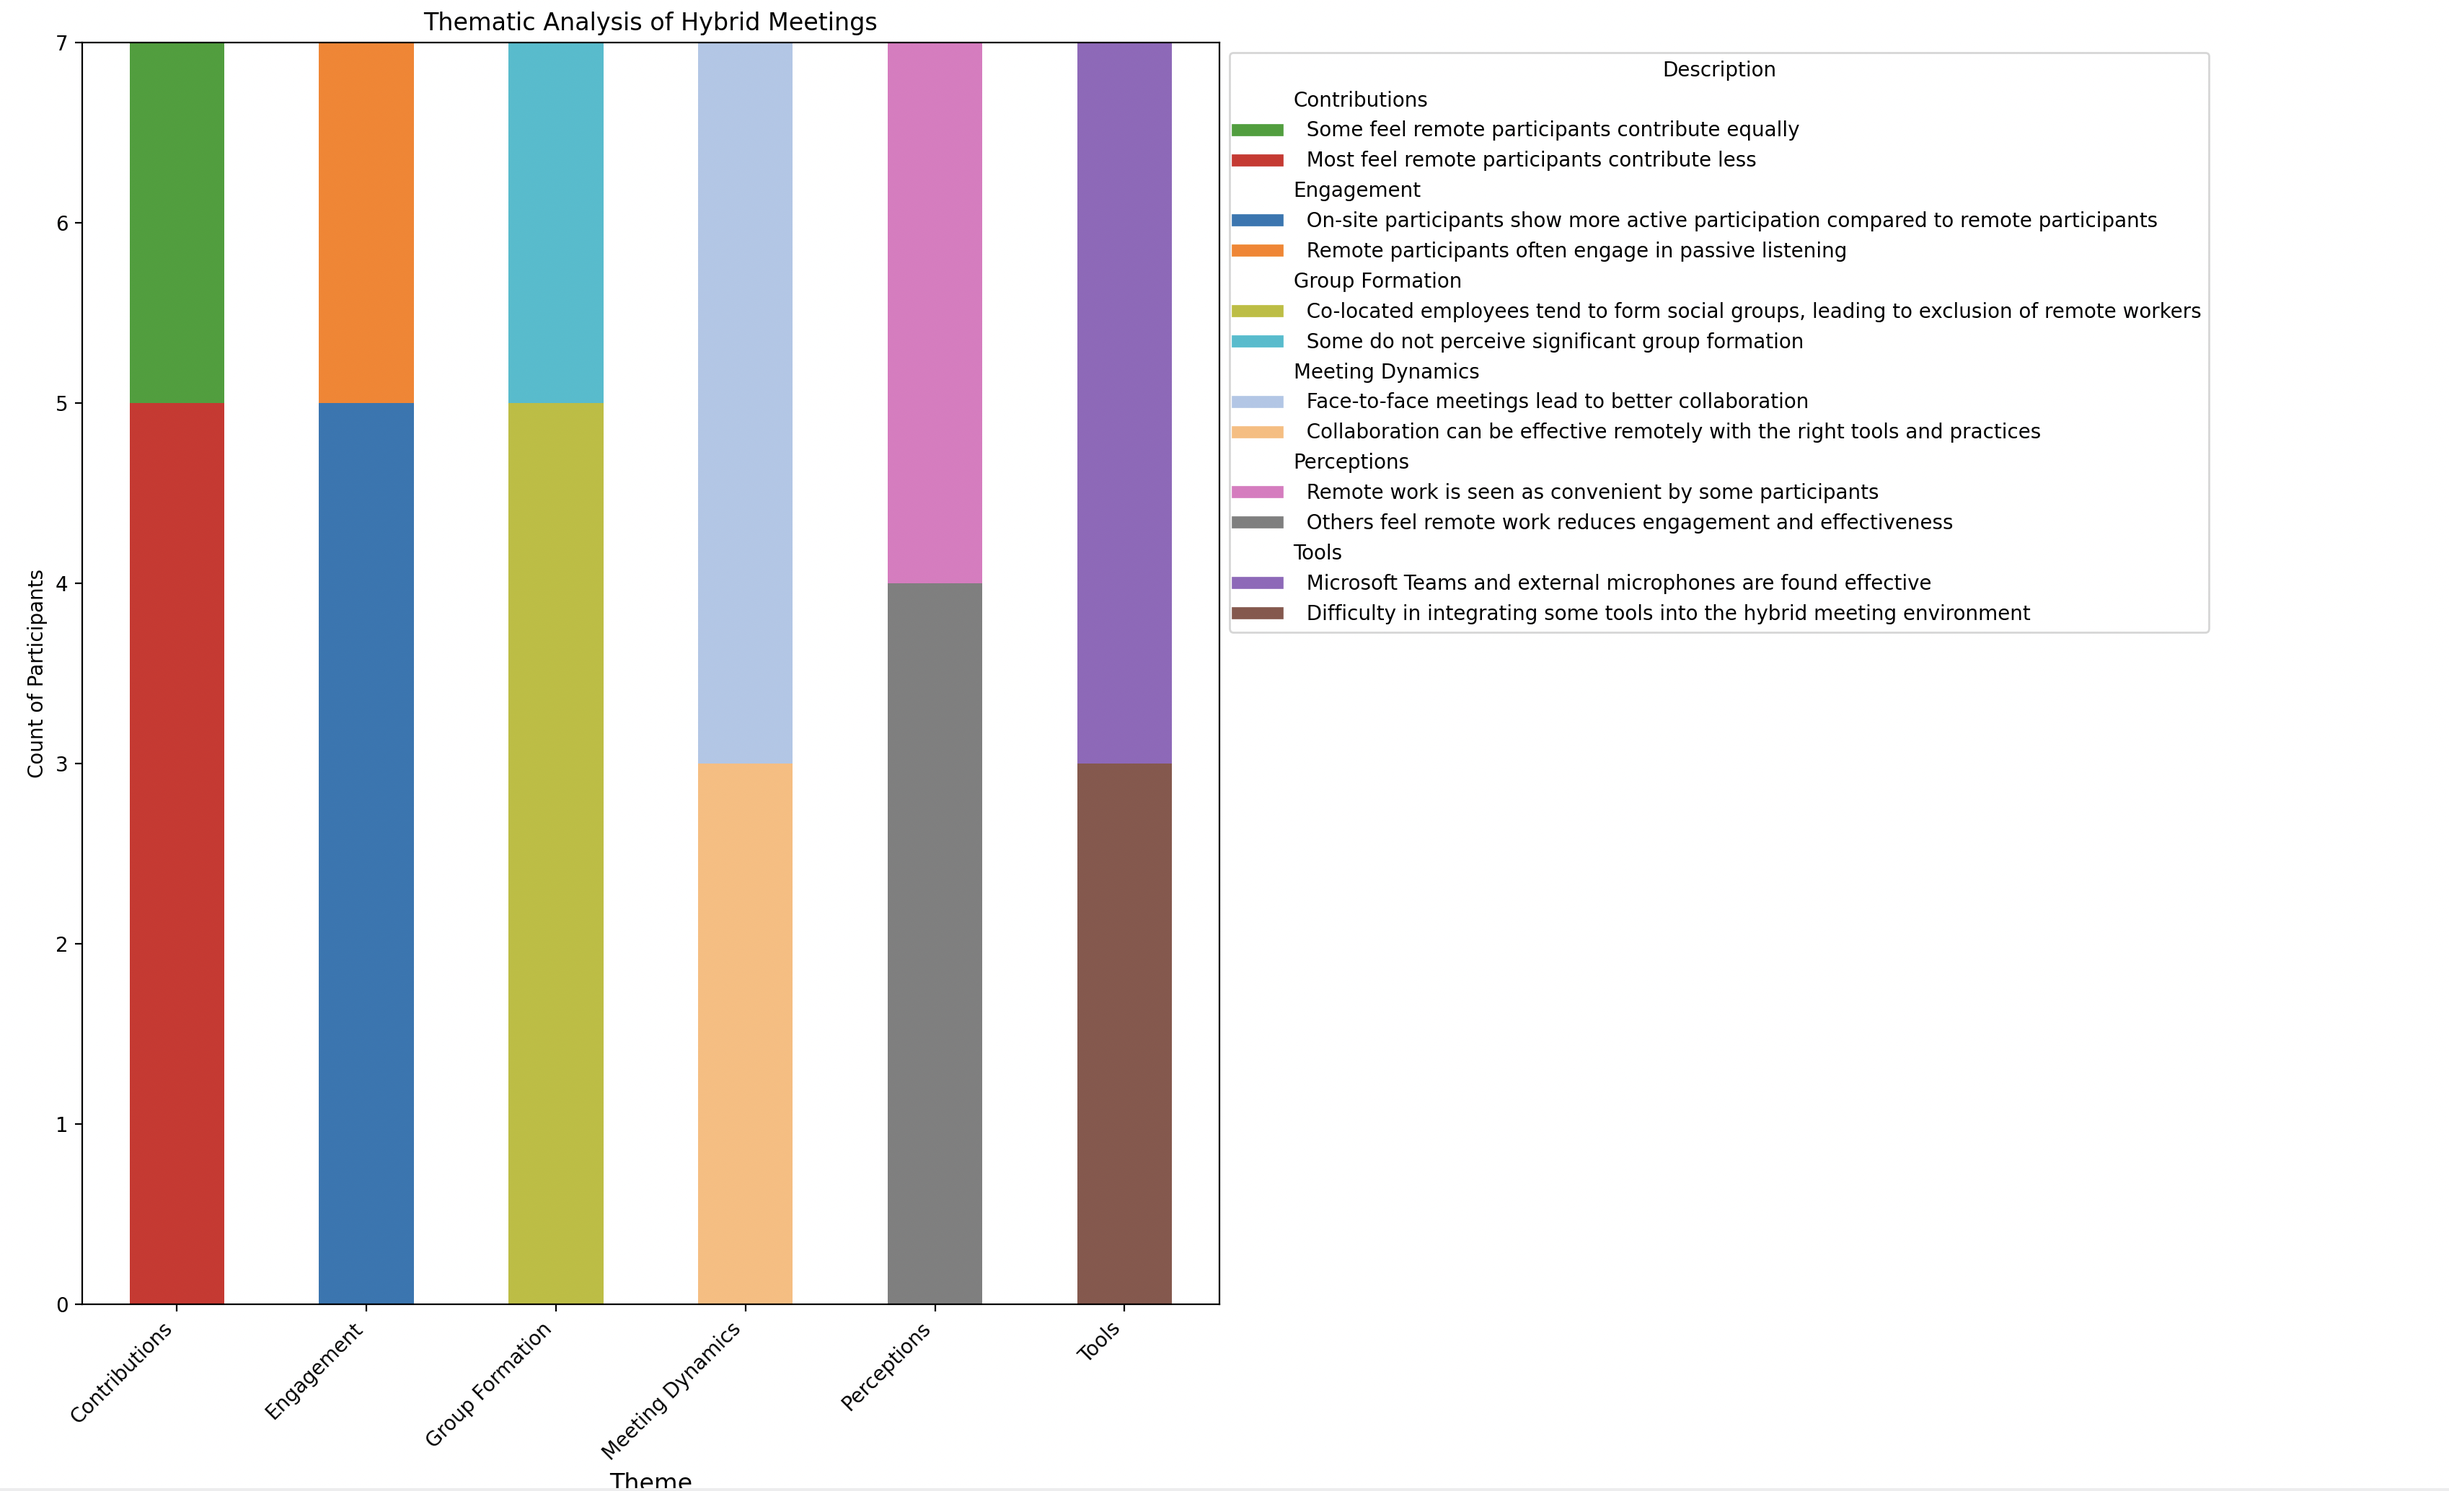
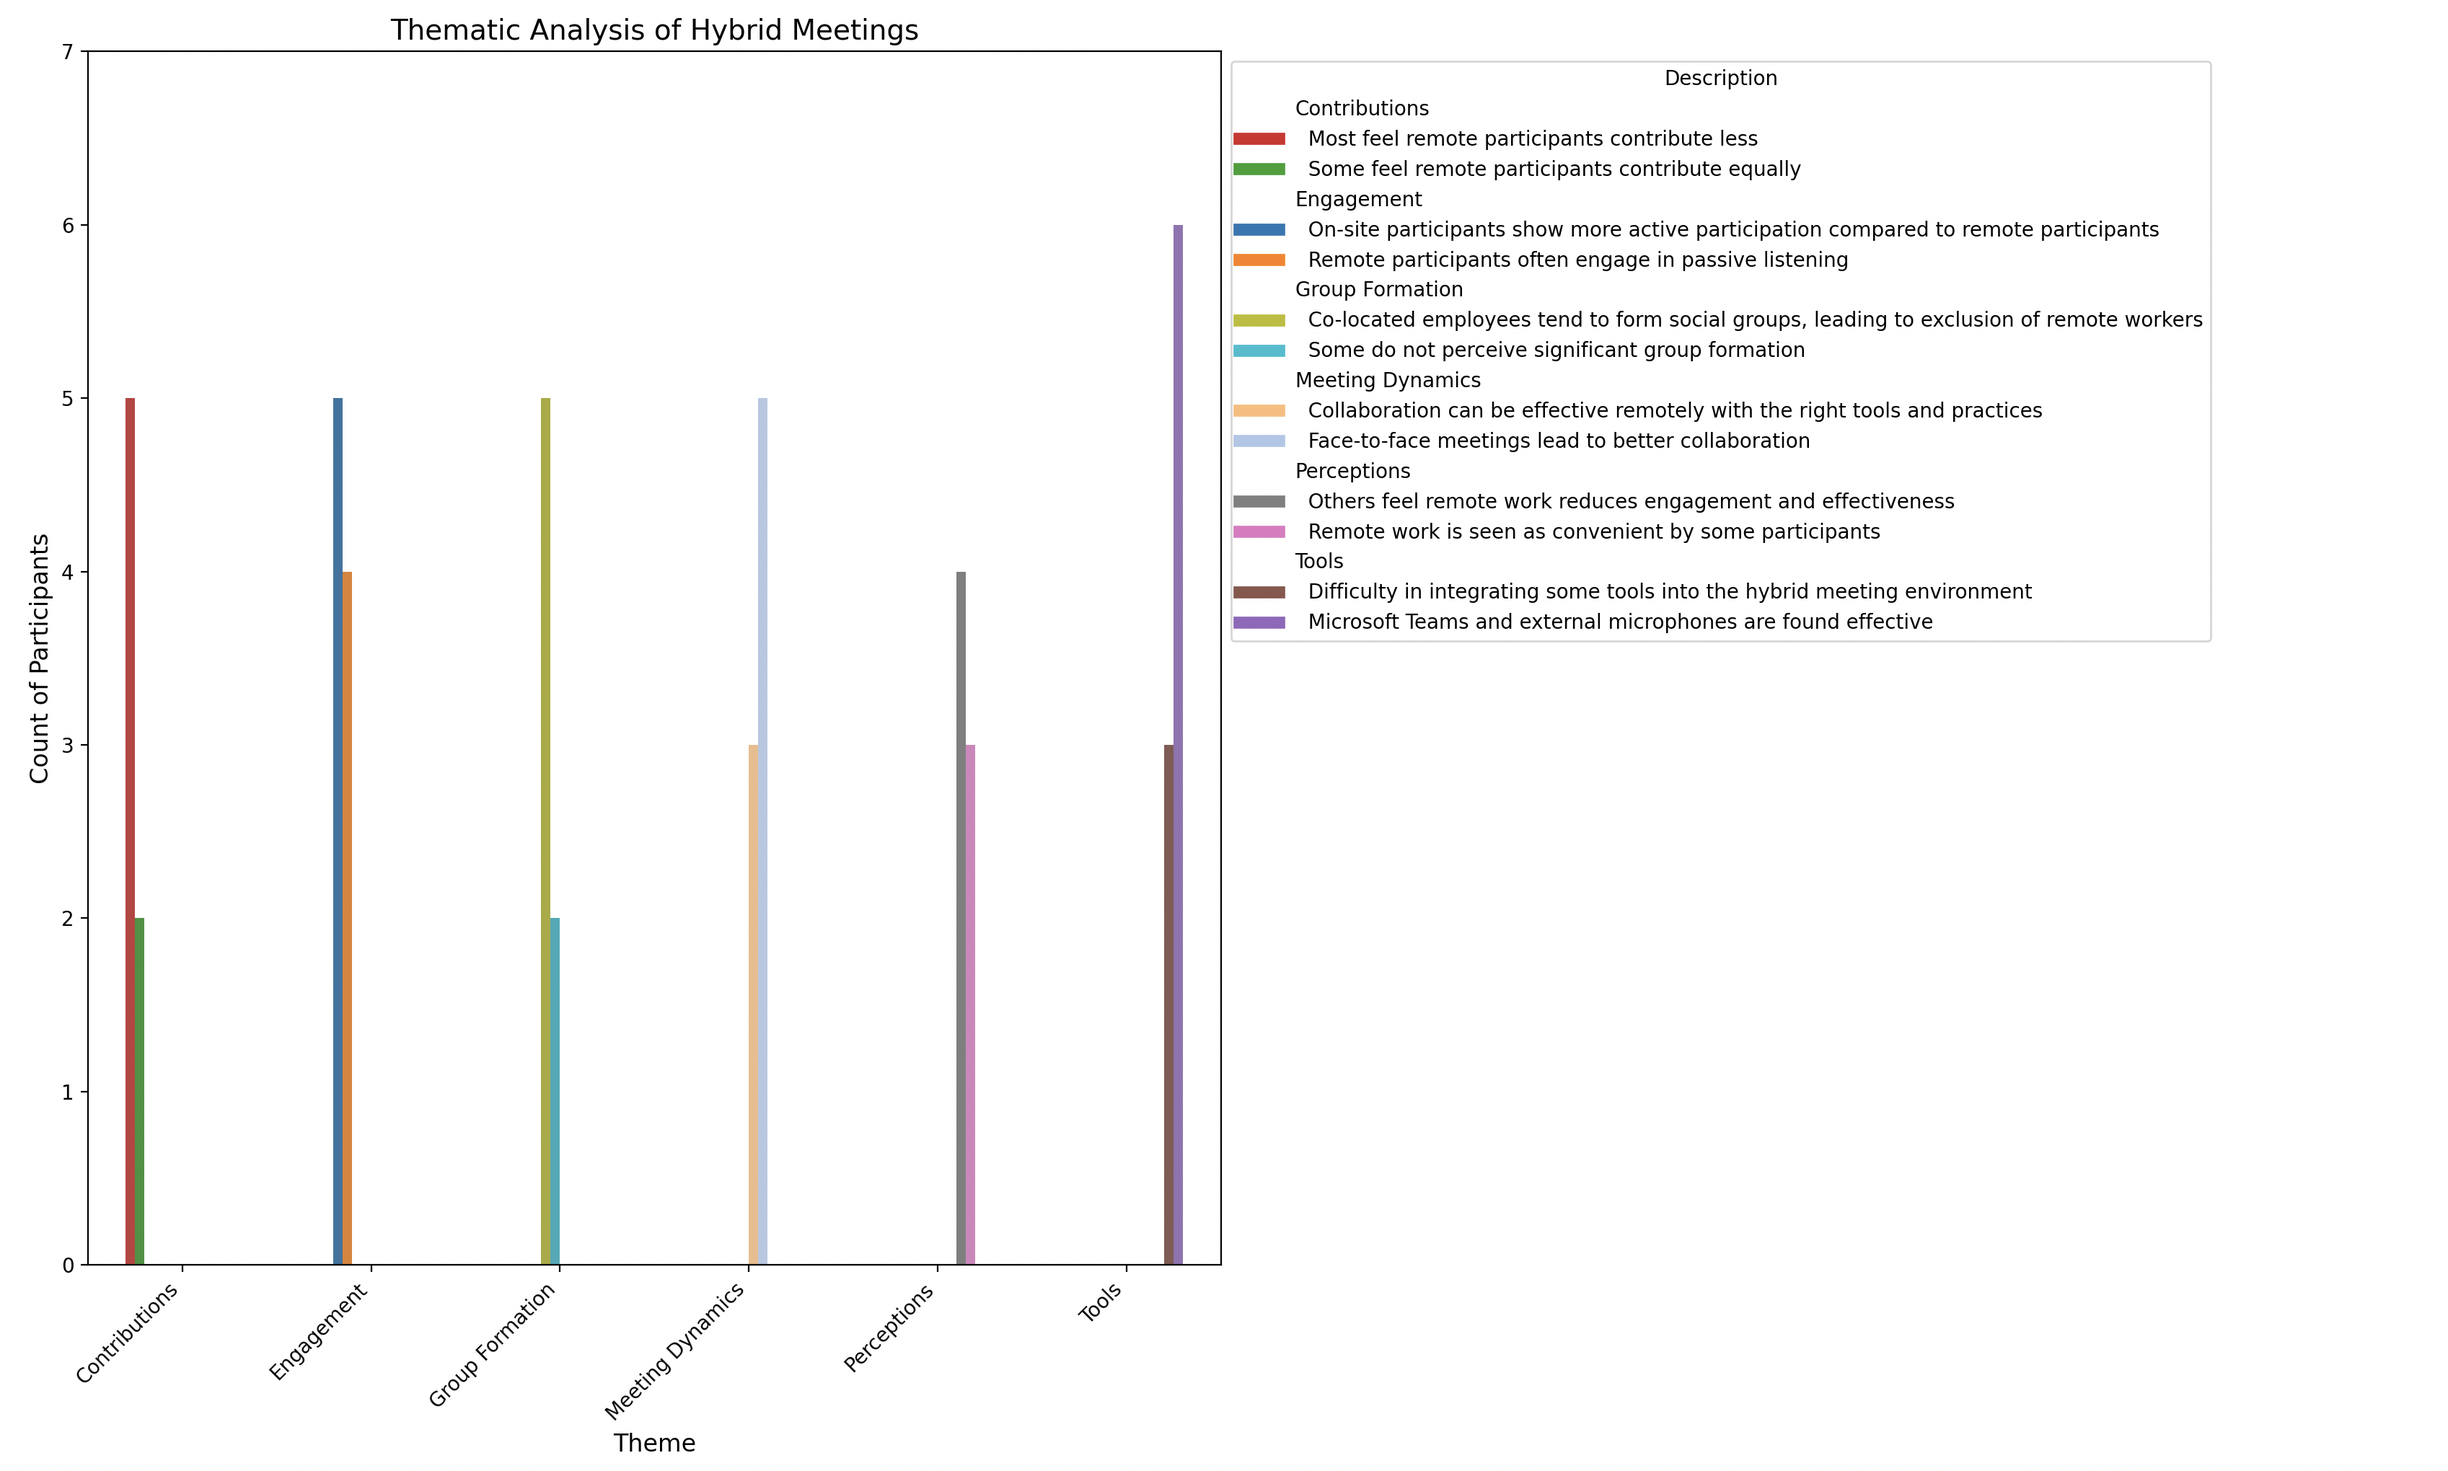
chart modified

diff --git a/Code/ChartsMaker.py b/Code/ChartsMaker.py
@@ -1,5 +1,6 @@
 import pandas as pd
 import matplotlib.pyplot as plt
+import seaborn as sns
 
 # Data for demographic table
 demographic_data = {
@@ -133,16 +134,19 @@ def create_custom_legend(ax, data, title, use_theme=True):
     
     ax.legend(handles, labels, loc='upper left', bbox_to_anchor=(1,1), title=title)
 
-# Bar Chart for Thematic Analysis
+# Sort thematic_df by Theme and Description to match the legend order
+thematic_df = thematic_df.sort_values(by=["Theme", "Description"])
+
+# Convert the color palette to a list for consistent coloring
+colors = [color_palette[desc] for desc in thematic_df['Description']]
+
+# Bar Chart for Thematic Analysis (Grouped) using Seaborn
 plt.figure(figsize=(14, 10))
-thematic_grouped = thematic_df.groupby(['Theme', 'Description'])['Count of Participants'].sum().unstack().fillna(0)
-thematic_colors = [color_palette[desc] for desc in thematic_grouped.columns]
-ax1 = thematic_grouped.plot(kind='bar', stacked=True, color=thematic_colors, figsize=(14, 12))
-plt.title('Thematic Analysis of Hybrid Meetings', fontsize=12)
+ax1 = sns.barplot(data=thematic_df, x='Theme', y='Count of Participants', hue='Description', palette=color_palette, dodge=True, width=0.6)
+plt.title('Thematic Analysis of Hybrid Meetings', fontsize=14)
 plt.xlabel('Theme', fontsize=12)
-plt.ylabel('Count of Participants', fontsize=10)
-plt.yticks(range(0, int(thematic_grouped.values.max().sum()) + 2, 1))  # Adjusting the y-ticks to show full scale
-plt.ylim(0, int(thematic_grouped.values.max().sum()) + 1)
+plt.ylabel('Count of Participants', fontsize=12)
+plt.yticks(range(0, int(thematic_df['Count of Participants'].max()) + 2, 1))
 plt.xticks(rotation=45, ha='right')
 create_custom_legend(ax1, thematic_df, 'Description')
 plt.tight_layout()
@@ -157,15 +161,14 @@ plt.ylabel('')
 plt.tight_layout()
 plt.show()
 
-# Bar Chart for Suggestions for Improvement
 plt.figure(figsize=(14, 10))
 suggestions_grouped = suggestions_df.groupby(['Suggestions for Improvement', 'Description'])['Count of Participants'].sum().unstack().fillna(0)
 suggestions_colors = [color_palette[desc] for desc in suggestions_grouped.columns]
-ax2 = suggestions_grouped.plot(kind='barh', stacked=True, color=suggestions_colors, figsize=(14, 12))
+ax2 = suggestions_grouped.plot(kind='barh', stacked=True, color=suggestions_colors, figsize=(14, 10))
 plt.title('Suggestions for Improvement in Hybrid Meetings', fontsize=14)
 plt.xlabel('Count of Participants', fontsize=12)
-plt.ylabel('Suggestions for Improvement', fontsize=10)
-plt.xticks(range(0, int(suggestions_grouped.values.max().sum()) + 2, 1))  # Adjusting the x-ticks to show full scale
+plt.ylabel('Suggestions for Improvement', fontsize=12)
+plt.xticks(range(0, int(suggestions_grouped.values.max().sum()) + 2, 1))
 plt.xlim(0, int(suggestions_grouped.values.max().sum()) + 1)
 create_custom_legend(ax2, suggestions_df, 'Description', use_theme=False)
 plt.tight_layout()
